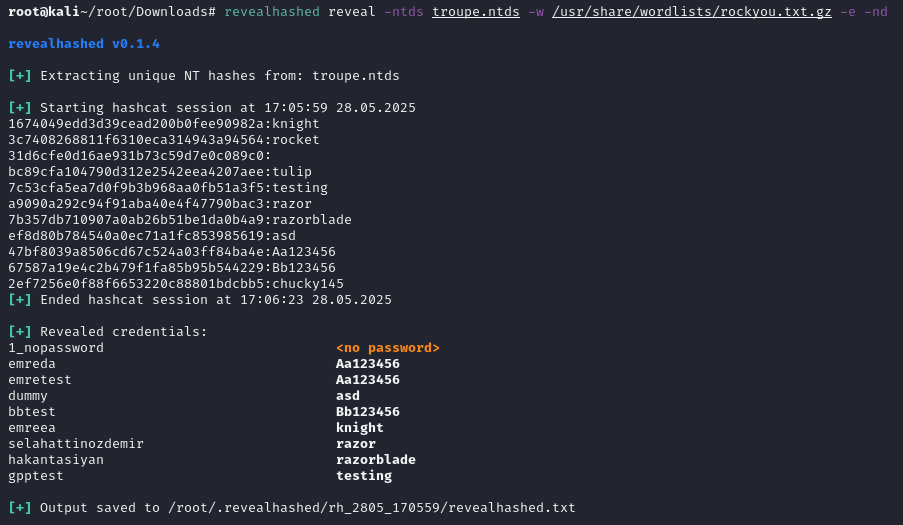
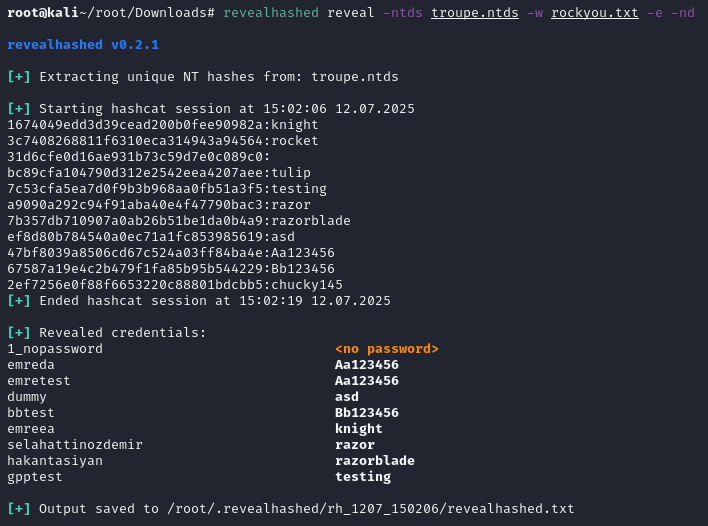
v0.2.1
added bloodhound support

diff --git a/revealhashed/core.py b/revealhashed/core.py
@@ -22,6 +22,10 @@ from revealhashed.imports.ntdsutil import get_ntdsutil_parser, run_ntdsutil
 # ntds class
 from impacket.examples.secretsdump import NTDSHashes, LocalOperations
 
+# neo4j
+from neo4j import Auth, GraphDatabase
+from neo4j.exceptions import ServiceUnavailable
+
 # constants
 HOME = Path.home()
 TMP_DIR = HOME / ".revealhashed"
@@ -60,6 +64,10 @@ def parse_args():
     dump_parser.add_argument("-e", "--enabled-only", action="store_true", help="Only show enabled accounts")
     dump_parser.add_argument('-nd', '--no-domain', action='store_true', help="Don't display domain in usernames")
     dump_parser.add_argument('-csv', action='store_true', help="Save output in CSV format")
+    dump_parser.add_argument('-bh', action='store_true', help="Mark cracked users as owned in BloodHound")
+    dump_parser.add_argument('--dburi', help='BloodHound Neo4j URI')
+    dump_parser.add_argument('--dbuser', help='BloodHound Neo4j username')
+    dump_parser.add_argument('--dbpassword', help='BloodHound Neo4j password')
     # do not include -outputdir
     
     # subparser: reveal
@@ -70,7 +78,10 @@ def parse_args():
     reveal_parser.add_argument("-e", "--enabled-only", action="store_true", help="Only show enabled accounts")
     reveal_parser.add_argument('-nd', '--no-domain', action='store_true', help="Don't display domain in usernames")
     reveal_parser.add_argument('-csv', action='store_true', help="Save output in CSV format")
-
+    reveal_parser.add_argument('-bh', action='store_true', help="Mark cracked users as owned in BloodHound")
+    reveal_parser.add_argument('--dburi', help='BloodHound Neo4j URI')
+    reveal_parser.add_argument('--dbuser', help='BloodHound Neo4j username')
+    reveal_parser.add_argument('--dbpassword', help='BloodHound Neo4j password')
     return parser
 
 def reset_tmp_dir():
@@ -86,6 +97,76 @@ def create_session_dir():
     session_path = TMP_DIR / f"rh_{now}"
     session_path.mkdir(parents=True, exist_ok=True)
     return session_path
+
+def mark_bloodhound_owned(txt_file_path, dburi, dbuser, dbpassword):
+    try:
+        driver = GraphDatabase.driver(dburi, auth=Auth(scheme="basic", principal=dbuser, credentials=dbpassword))
+        driver.verify_connectivity()
+        print(f"\n{BOLD_GREEN}[+]{RESET} Connected to BloodHound Neo4j database at {dburi} as {dbuser}\n")
+
+        # infer domain from first valid user line
+        inferred_domain = None
+        with open(txt_file_path) as f:
+            for line in f:
+                if "<no password>" in line:
+                    continue
+                parts = line.strip().split()
+                if not parts:
+                    continue
+                user_field = parts[0]
+                if "\\" in user_field:
+                    inferred_domain = user_field.split("\\", 1)[0].upper()
+                    break
+
+        with driver.session() as session:
+            with open(txt_file_path) as f:
+                for line in f:
+                    if "<no password>" in line:
+                        continue
+                    parts = line.strip().split()
+                    if not parts:
+                        continue
+
+                    user_field = parts[0]
+                    if "\\" in user_field:
+                        domain, user = user_field.split("\\", 1)
+                    else:
+                        user = user_field
+                        domain = inferred_domain or ""
+
+                    is_computer = user.endswith("$")
+                    if is_computer:
+                        user = user.rstrip("$")
+                        full_name = f"{user}.{domain}".upper()
+                        label = "Computer"
+                    else:
+                        full_name = f"{user}@{domain}".upper()
+                        label = "User"
+
+                    # try marking as owned
+                    query = f"MATCH (c:{label} {{name:'{full_name}'}}) RETURN c.owned AS owned"
+                    result = session.run(query).data()
+
+                    if not result:
+                        print(f"{BOLD_RED}[-]{RESET} Node {full_name} not found in BloodHound")
+                        continue
+
+                    if result[0]["owned"] is True:
+                        print(f"{BOLD_GREEN}[+]{RESET} {full_name} already marked as owned")
+                        continue
+
+                    update_query = f"MATCH (c:{label} {{name:'{full_name}'}}) SET c.owned=true RETURN c.name AS name"
+                    update_result = session.run(update_query).data()
+
+                    if update_result:
+                        print(f"{BOLD_GREEN}[+]{RESET} Marked {full_name} as owned in BloodHound")
+                    else:
+                        print(f"{BOLD_RED}[-]{RESET} Failed to mark {full_name} as owned in BloodHound")
+
+    except ServiceUnavailable:
+        print(f"{BOLD_RED}[-]{RESET} BloodHound DB unreachable at {dburi}")
+    except Exception as e:
+        print(f"{BOLD_RED}[-]{RESET} Error while marking BloodHound: {e}")
 
 def extract_unique_hashes(ntds_path, output_path, full_output_path, write_full_output=True):
     print(f"{BOLD_GREEN}[+]{RESET} Extracting unique NT hashes from: {ntds_path}")
@@ -199,7 +280,7 @@ def reveal_credentials(individual_ntds_path, cracked_hashes, session_dir, enable
         print(f"{BOLD_GREEN}[+]{RESET} Output saved to {output_file_csv}")
 
 def main():
-    print(f"\n{BOLD_BLUE}revealhashed v0.1.4{RESET}\n")
+    print(f"\n{BOLD_BLUE}revealhashed v0.2.1{RESET}\n")
 
     parser = parse_args()
     args = parser.parse_args()
@@ -289,6 +370,8 @@ def main():
             shutil.copy(HASHCAT_POT, session_dir)
         cracked = parse_potfile(HASHCAT_POT)
         reveal_credentials(ind_path, cracked, session_dir, enabled_only=args.enabled_only, no_domain=args.no_domain, to_csv=args.csv)
+        if getattr(args, "bh", False):
+            mark_bloodhound_owned(session_dir / "revealhashed.txt", args.dburi, args.dbuser, args.dbpassword)
 
     elif args.command == "reveal":
         if args.nxc:
@@ -340,11 +423,13 @@ def main():
             shutil.copy(HASHCAT_POT, session_dir)
         cracked = parse_potfile(HASHCAT_POT)
         reveal_credentials(ind_path, cracked, session_dir, enabled_only=args.enabled_only, no_domain=args.no_domain, to_csv=args.csv)
+        if getattr(args, "bh", False):
+            mark_bloodhound_owned(session_dir / "revealhashed.txt", args.dburi, args.dbuser, args.dbpassword)
 
 if __name__ == "__main__":
     main()
 
-# revealhashed v0.1.4
+# revealhashed v0.2.1
 # 
 # contact options
 # mail: https://blog.zurrak.com/contact.html

diff --git a/revealhashed/__init__.py b/revealhashed/__init__.py
@@ -1,1 +1,1 @@
-__version__ = "0.1.0"
+__version__ = "0.2.1"

diff --git a/README.md b/README.md
@@ -1,10 +1,12 @@
 
-## about revealhashed-python v0.1.4
+
+## about revealhashed-python v0.2.1
 revealhashed is a streamlined utility to correlate ntds usernames, nt hashes, and cracked passwords in one view while cutting out time-consuming manual tasks.  
 
 ## dependencies  
 hashcat  
 impacket or python3-impacket  
+neo4j  
 
 ## how to install
 from pypi:  
@@ -14,17 +16,17 @@ from github:
 `pipx install git+https://github.com/crosscutsaw/revealhashed-python`  
 
 from deb package:  
-`wget https://github.com/crosscutsaw/revealhashed-python/releases/latest/download/revealhashed_0.1.4_all.deb; apt install ./revealhashed_0.1.4_all.deb`  
+`wget https://github.com/crosscutsaw/revealhashed-python/releases/latest/download/revealhashed_0.2.1_all.deb; apt install ./revealhashed_0.2.1_all.deb`  
 
 from whl package:  
-`wget https://github.com/crosscutsaw/revealhashed-python/releases/latest/download/revealhashed-0.1.4-py3-none-any.whl; pipx install revealhashed-0.1.4-py3-none-any.whl`  
+`wget https://github.com/crosscutsaw/revealhashed-python/releases/latest/download/revealhashed-0.2.1-py3-none-any.whl; pipx install revealhashed-0.2.1-py3-none-any.whl`  
 
 ## don't want to install?
 grab revealhashed binary from [here](https://github.com/crosscutsaw/revealhashed-python/releases/latest/download/revealhashed).  
 
 ## how to use
 ```
-revealhashed v0.1.4
+revealhashed v0.2.1
 
 usage: revealhashed [-h] [-r] {dump,reveal} ...
 
@@ -42,26 +44,50 @@ just execute `revealhashed -r` to remove contents of ~/.revealhashed
 
 ### revealhashed dump
 ```
-revealhashed v0.1.4
+revealhashed v0.2.1
 
-usage: revealhashed dump [-h] [-debug] [-hashes HASHES] [-no-pass] [-k] [-aesKey AESKEY] [-dc-ip DC_IP] [-codec CODEC] -w WORDLIST WORDLIST2 [WORDLIST WORDLIST2 ...] [-e] [-nd] [-csv] target
+usage: revealhashed dump [-h] [-debug] [-hashes HASHES] [-no-pass] [-k] [-aesKey AESKEY] [-dc-ip DC_IP] [-codec CODEC] -w WORDLIST WORDLIST2 [WORDLIST WORDLIST2 ...] [-e] [-nd] [-csv] [-bh] [--dburi DBURI] [--dbuser DBUSER] [--dbpassword DBPASSWORD] target
+
+positional arguments:
+  target                Target for NTDS dumping (e.g. domain/user:pass@host)
+
+options:
+  -h, --help            show this help message and exit
+  -debug
+  -hashes HASHES
+  -no-pass
+  -k
+  -aesKey AESKEY
+  -dc-ip DC_IP
+  -codec CODEC
+  -w WORDLIST WORDLIST2 [WORDLIST WORDLIST2 ...], --wordlists WORDLIST WORDLIST2 [WORDLIST WORDLIST2 ...]
+                        Wordlists to use with hashcat
+  -e, --enabled-only    Only show enabled accounts
+  -nd, --no-domain      Don't display domain in usernames
+  -csv                  Save output in CSV format
+  -bh                   Mark cracked users as owned in BloodHound
+  --dburi DBURI         BloodHound Neo4j URI
+  --dbuser DBUSER       BloodHound Neo4j username
+  --dbpassword DBPASSWORD
+                        BloodHound Neo4j password
 ```
 
 this command executes [zblurx's ntdsutil.py](https://github.com/zblurx/ntdsutil.py) to dump ntds safely then does classic revealhashed operations.  
 
 -w (wordlist) switch is needed. one or more wordlists can be supplied.    
--e (enabled-only) switch is suggested. it's self explanatory; only shows enabled users.  
+-e (enabled-only) switch is suggested. it's only shows enabled users.  
 -nd (no-domain) switch hides domain names in usernames.  
--csv (csv) switch is self explanatory; saves output to csv, together with txt.  
+-bh (bloodhound) switch marks cracked users as owned in bloodhound. if used, `--dburi`, `--dbuser` and `--dbpassword` are also needed to connect neo4j database. it supports both legacy and ce.  
+-csv (csv) switch saves output to csv, together with txt.  
 
 for example:  
-`revealhashed dump '<domain>/<username>:<password>'@<dc_ip> -w wordlist1.txt wordlist2.txt -e -nd -csv`
+`revealhashed dump '<domain>/<username>:<password>'@<dc_ip> -w wordlist1.txt wordlist2.txt -e -nd -csv -bh --dburi bolt://localhost:7687 --dbuser neo4j --dbpassword 1234`
 
 ### revealhashed reveal
 ```
-revealhashed v0.1.4
+revealhashed v0.2.1
 
-usage: revealhashed reveal [-h] [-ntds NTDS] [-nxc] [-w WORDLIST WORDLIST2 [WORDLIST WORDLIST2 ...]] [-e] [-nd] [-csv]
+usage: revealhashed reveal [-h] [-ntds NTDS] [-nxc] [-w WORDLIST WORDLIST2 [WORDLIST WORDLIST2 ...]] [-e] [-nd] [-csv] [-bh] [--dburi DBURI] [--dbuser DBUSER] [--dbpassword DBPASSWORD]
 
 options:
   -h, --help            show this help message and exit
@@ -72,6 +98,11 @@ options:
   -e, --enabled-only    Only show enabled accounts
   -nd, --no-domain      Don't display domain in usernames
   -csv                  Save output in CSV format
+  -bh                   Mark cracked users as owned in BloodHound
+  --dburi DBURI         BloodHound Neo4j URI
+  --dbuser DBUSER       BloodHound Neo4j username
+  --dbpassword DBPASSWORD
+                        BloodHound Neo4j password
   ```
 
 this command wants to get supplied with ntds file by user or netexec then does classic revealhashed operations.  
@@ -80,9 +111,10 @@ this command wants to get supplied with ntds file by user or netexec then does c
 
 -ntds or -nxc switch is needed. -ntds switch is for a file you own with hashes. -nxc switch is for scanning ~/.nxc/logs/ntds directory then selecting .ntds file.  
 -w (wordlist) switch is needed. one or more wordlists can be supplied.  
--e (enabled-only) switch is suggested. it's self explanatory; only shows enabled users.  
+-e (enabled-only) switch is suggested. it's only shows enabled users.  
 -nd (no-domain) switch hides domain names in usernames.  
--csv (csv) switch is self explanatory; saves output to csv, together with txt.  
+-bh (bloodhound) switch marks cracked users as owned in bloodhound. if used, `--dburi`, `--dbuser` and `--dbpassword` are also needed to connect neo4j database. it supports both legacy and ce.  
+-csv (csv) switch saves output to csv, together with txt.  
 
 for example:  
 `revealhashed reveal -ntds <ntds_file>.ntds -w wordlist1.txt -e -nd -csv`  
@@ -96,3 +128,5 @@ for example:
 ![](https://raw.githubusercontent.com/crosscutsaw/revealhashed-python/main/rp3.PNG)
 
 ![](https://raw.githubusercontent.com/crosscutsaw/revealhashed-python/main/rp4.PNG)
+
+![](https://raw.githubusercontent.com/crosscutsaw/revealhashed-python/main/rp5.PNG)
